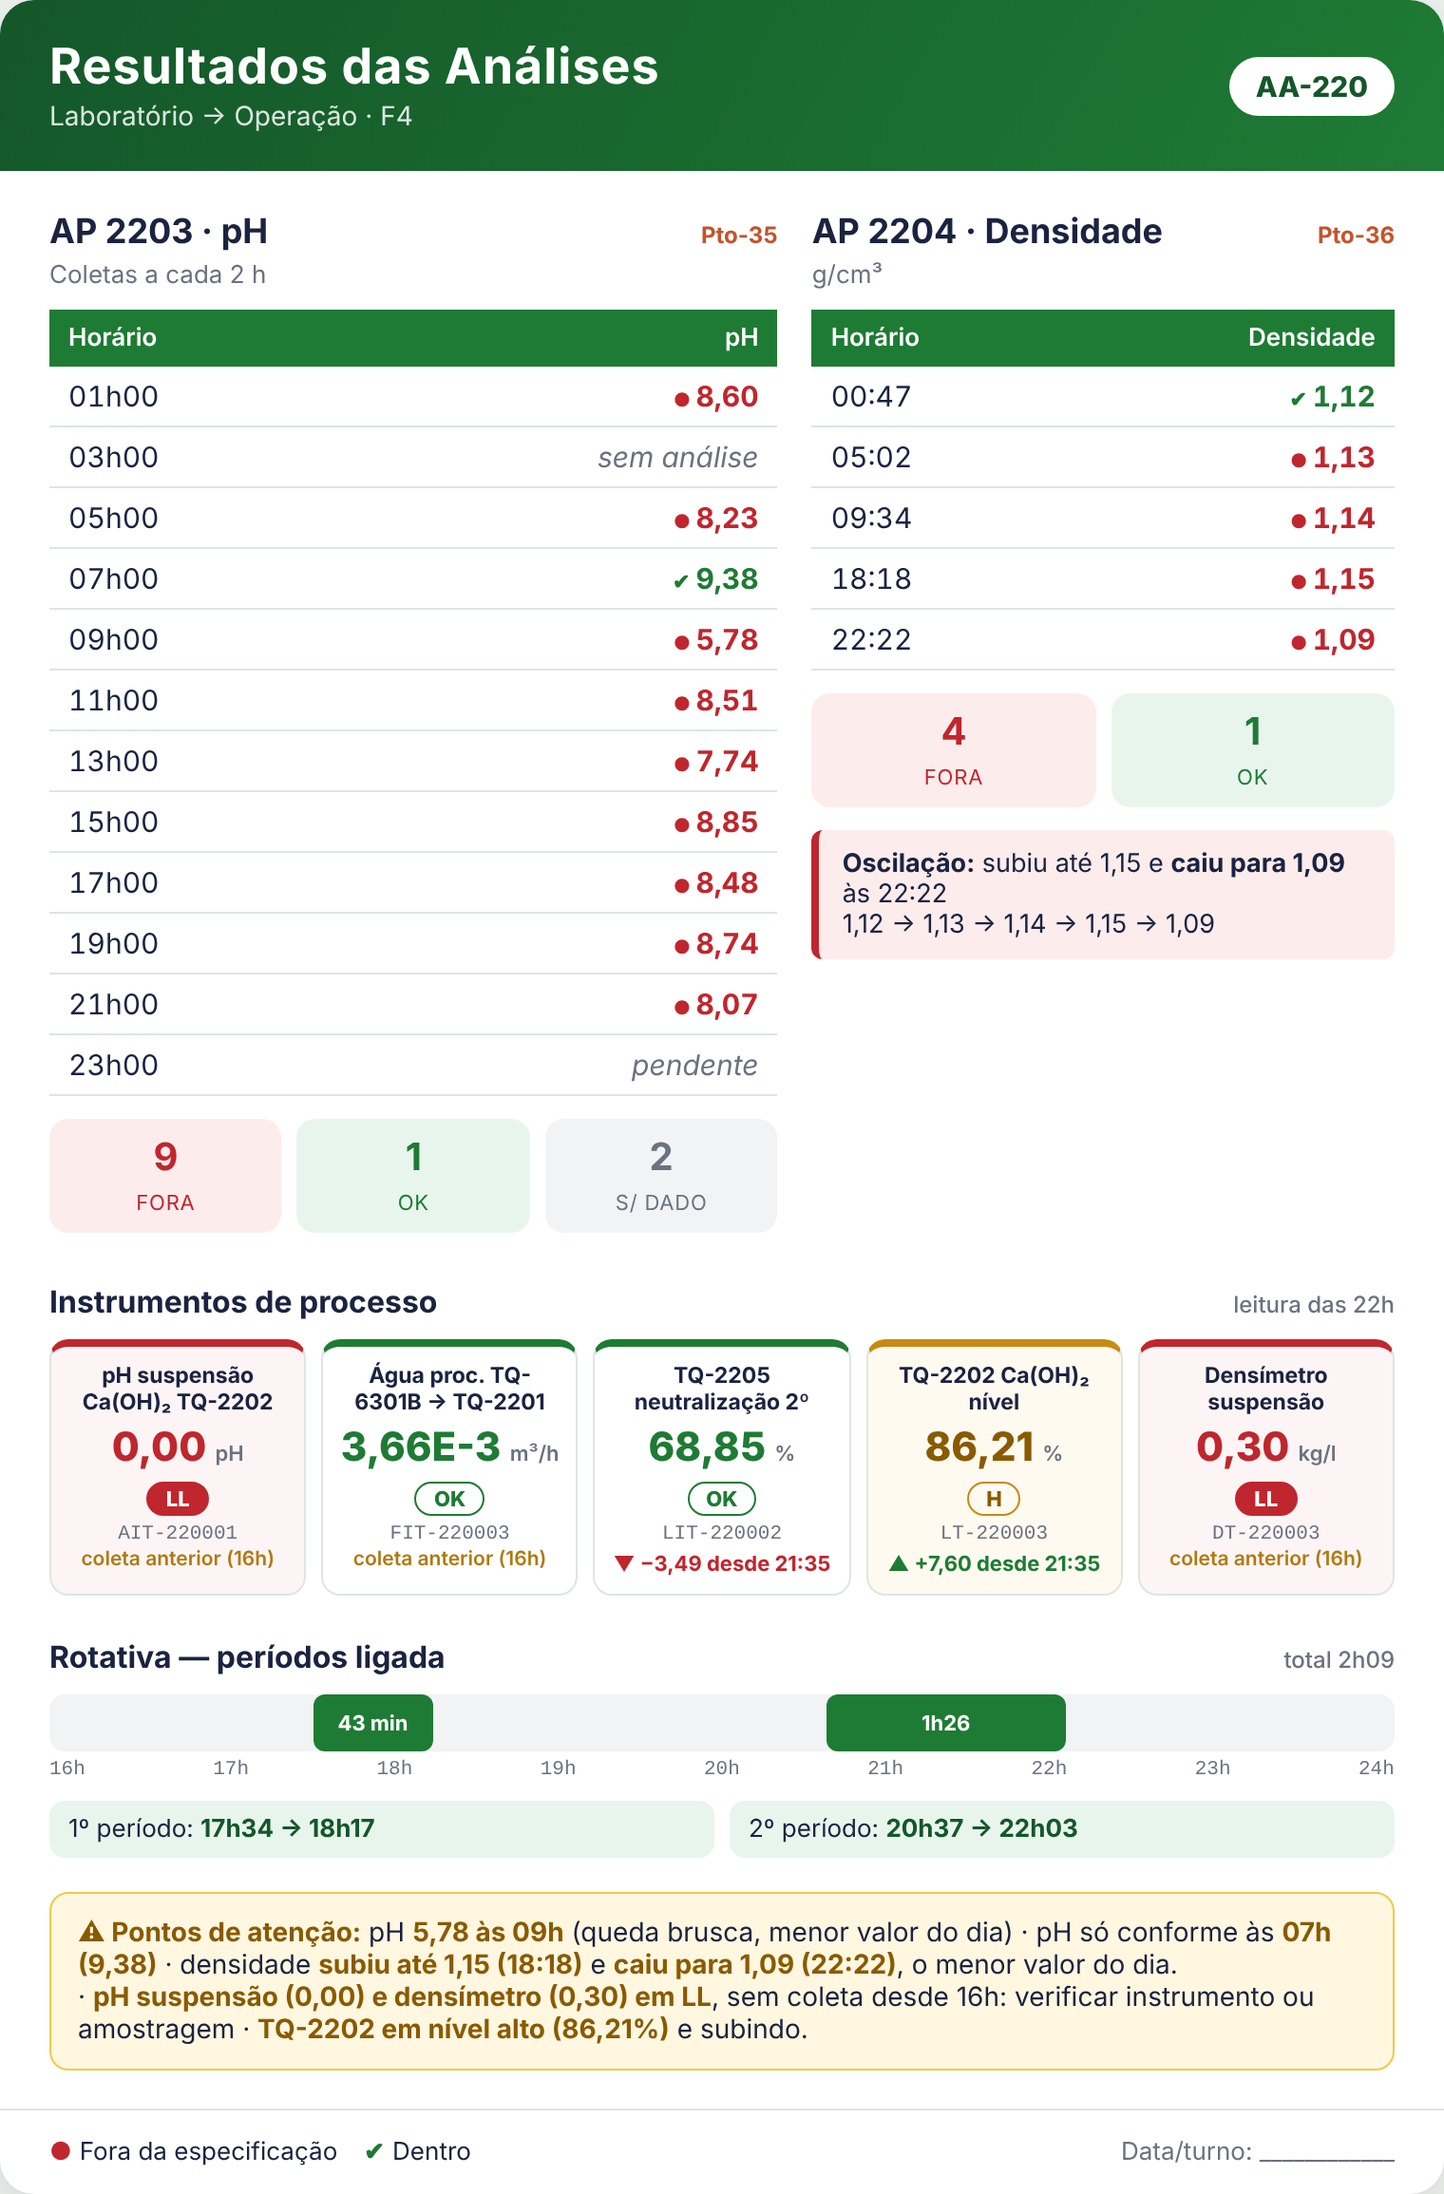
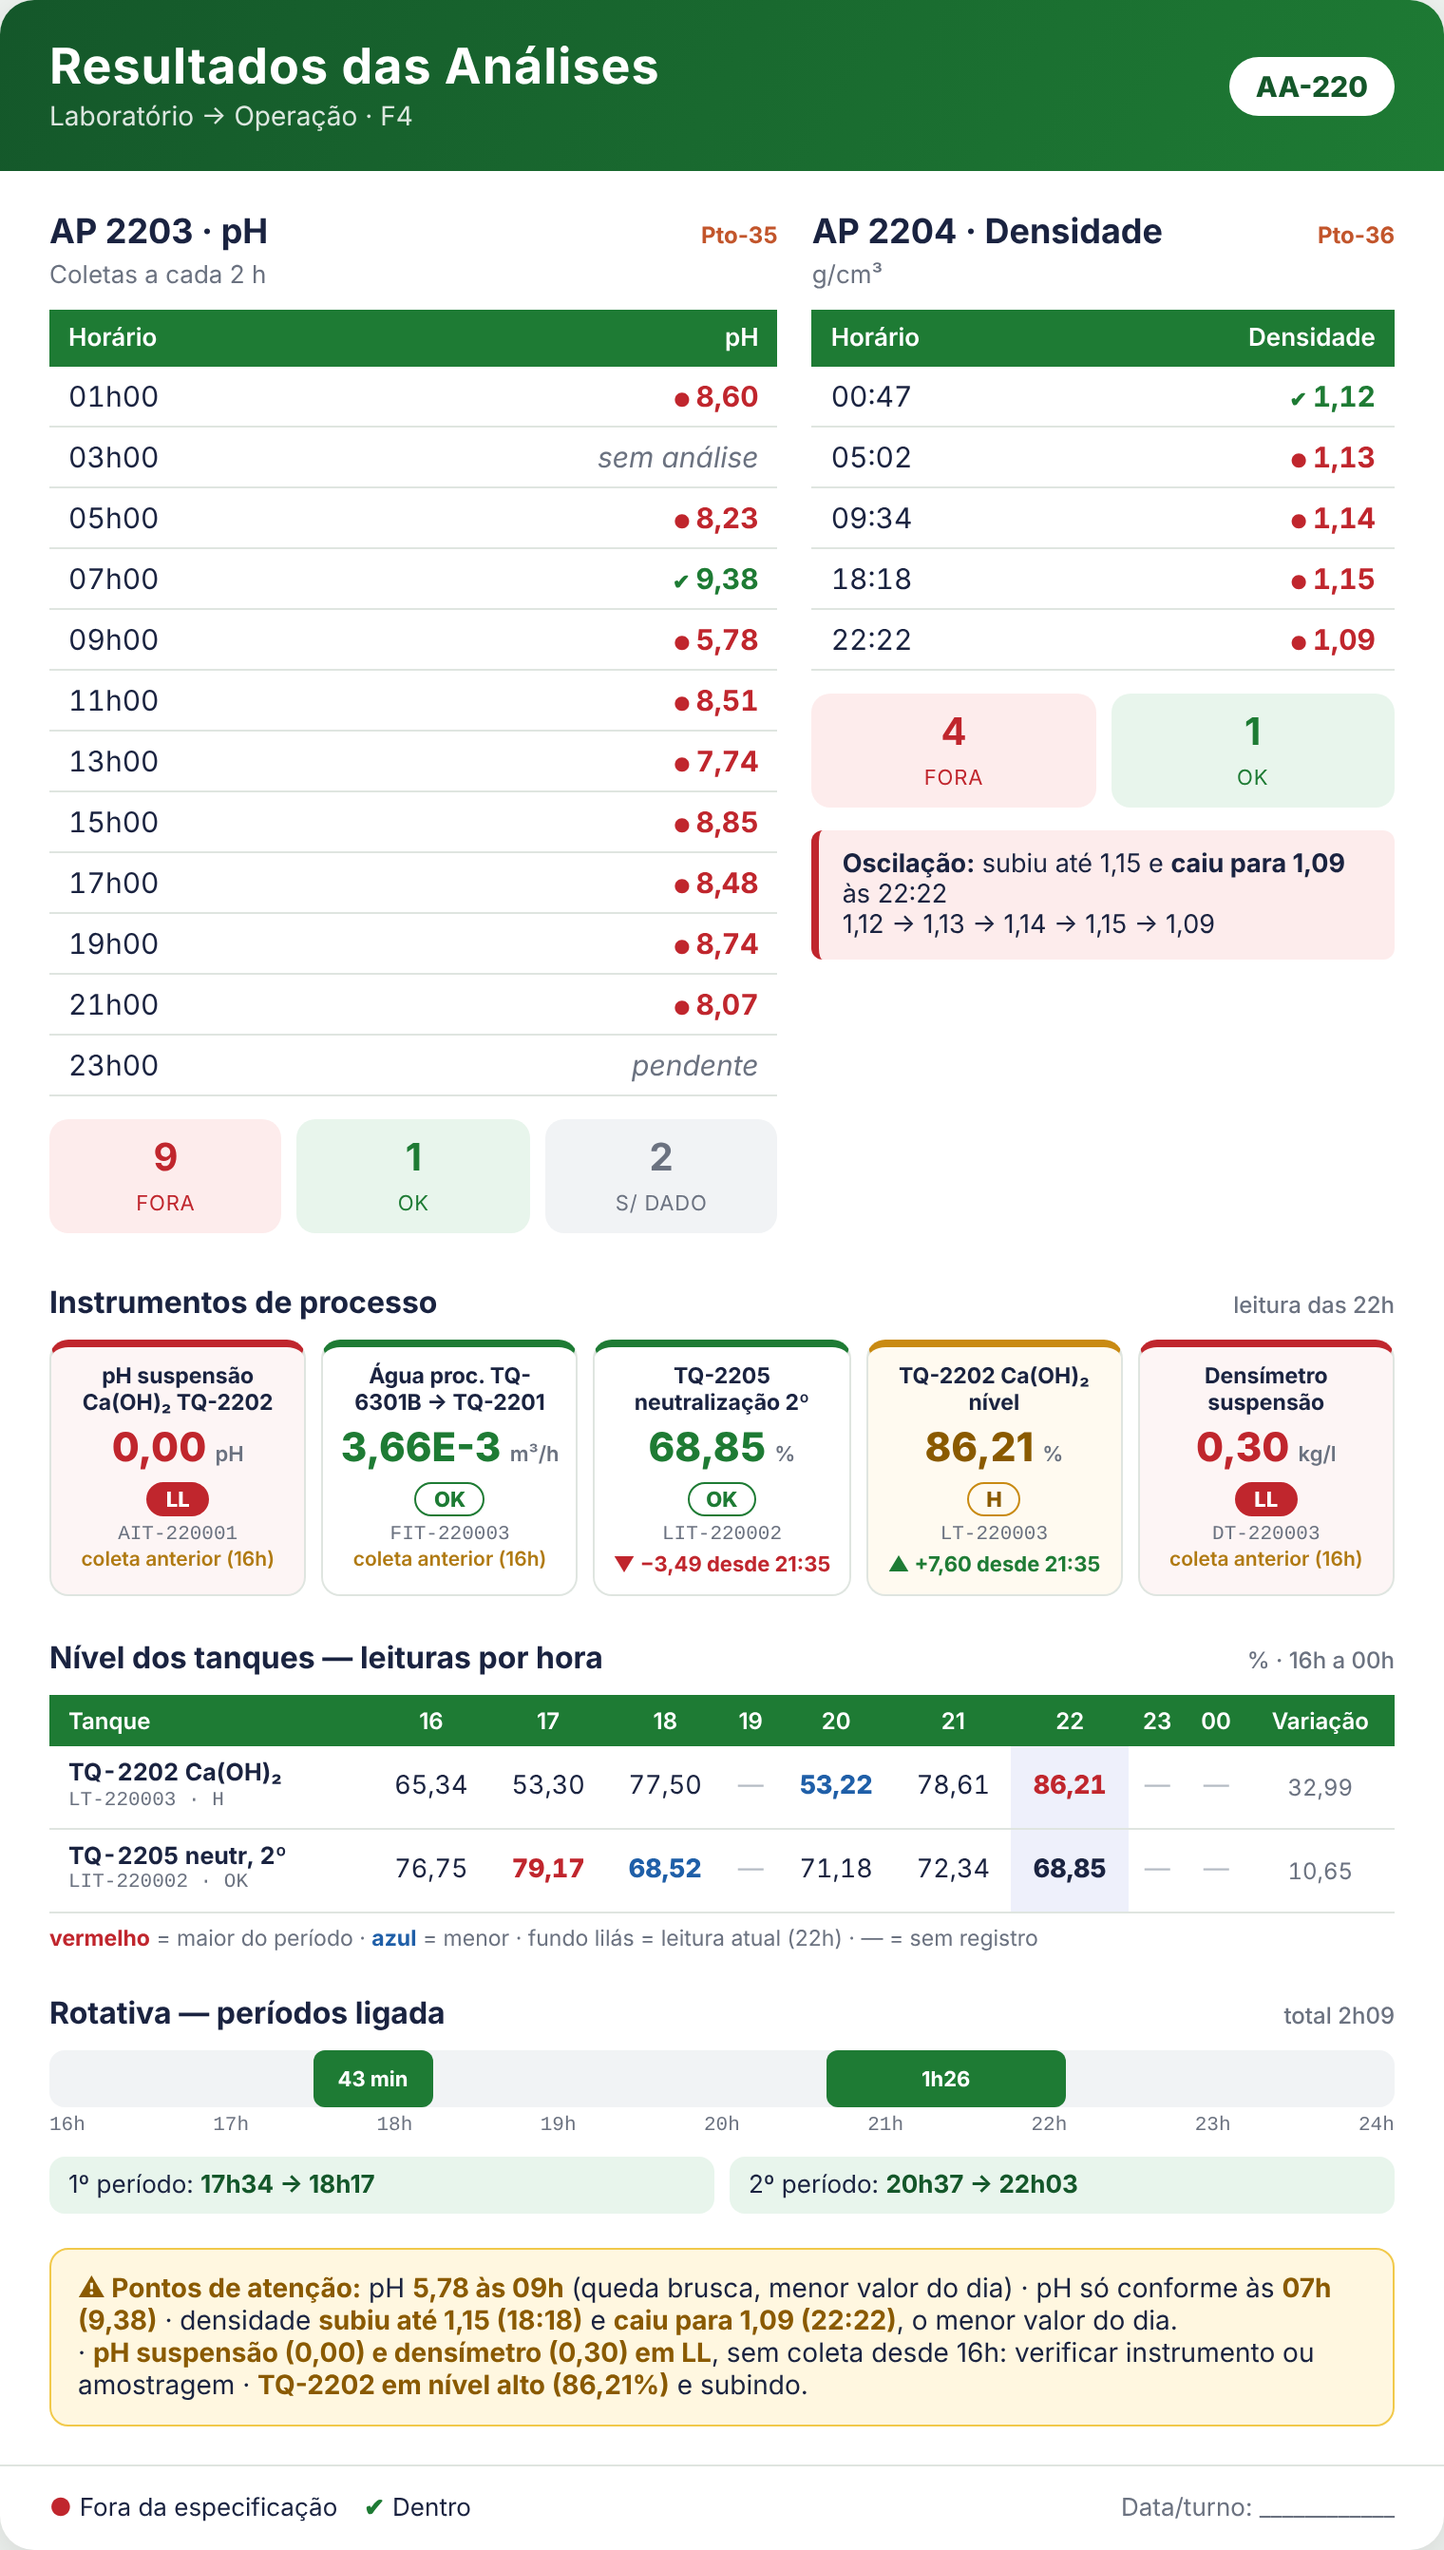
Card AA-220: tabela horária dos níveis TQ-2202 e TQ-2205
Claude-Session: https://claude.ai/code/session_011m7LBXPQBMbjCEjUidTX4p

Changed region(s): [[0.0, 0.0, 1.0, 0.9974], [0.7421, 0.374, 0.9276, 0.4052]]

diff --git a/card-aa220.html b/card-aa220.html
@@ -61,6 +61,19 @@ tr.na td.v{color:var(--mut);font-weight:400;font-style:italic}
 .rot{display:flex;gap:8px;margin-top:10px}
 .rot div{flex:1;background:var(--okbg);border-radius:8px;padding:7px 10px;font-size:13px}
 .rot b{color:var(--gd)}
+.hr{width:100%;border-collapse:collapse;font-size:13.5px}
+.hr th{padding:6px 4px;text-align:center;font-size:12px}
+.hr th:first-child,.hr td:first-child{text-align:left;padding-left:10px}
+.hr td{padding:7px 4px;text-align:center;border-bottom:1px solid var(--line);font-variant-numeric:tabular-nums}
+.hr td:first-child{font-weight:700;font-size:12.5px;line-height:1.25}
+.hr td:first-child small{display:block;font-weight:500;color:var(--mut);font-family:Consolas,monospace;font-size:10.5px}
+.hr td.na{color:#b5bcc4}
+.hr td.mx{color:var(--red);font-weight:800}
+.hr td.mn{color:#1f5fa8;font-weight:800}
+.hr td.now{background:#eef0fb;font-weight:800}
+.hr td.ext{font-size:12px;color:var(--mut)}
+.hr th:last-child,.hr td:last-child{text-align:center}
+.lg2{font-size:11.5px;color:var(--mut);margin-top:6px}
 </style></head><body>
 <div class="card">
   <div class="hd">
@@ -122,6 +135,16 @@ tr.na td.v{color:var(--mut);font-weight:400;font-style:italic}
       <div class="it h"><div class="n">TQ-2202 Ca(OH)₂ nível</div><div class="val">86,21 <small>%</small></div><span class="st">H</span><div class="tag2">LT-220003</div><div class="tr up">▲ +7,60 desde 21:35</div></div>
       <div class="it ll"><div class="n">Densímetro suspensão</div><div class="val">0,30 <small>kg/l</small></div><span class="st">LL</span><div class="tag2">DT-220003</div><div class="obs">coleta anterior (16h)</div></div>
     </div>
+  </div>
+
+  <div class="sec">
+    <h3>Nível dos tanques — leituras por hora <small>% · 16h a 00h</small></h3>
+    <table class="hr">
+      <tr><th>Tanque</th><th>16</th><th>17</th><th>18</th><th>19</th><th>20</th><th>21</th><th>22</th><th>23</th><th>00</th><th>Variação</th></tr>
+      <tr><td>TQ-2202 Ca(OH)₂<small>LT-220003 · H</small></td><td class="">65,34</td><td class="">53,30</td><td class="">77,50</td><td class="na">—</td><td class="mn">53,22</td><td class="">78,61</td><td class="mx now">86,21</td><td class="na">—</td><td class="na">—</td><td class="ext">32,99</td></tr>
+      <tr><td>TQ-2205 neutr, 2º<small>LIT-220002 · OK</small></td><td class="">76,75</td><td class="mx">79,17</td><td class="mn">68,52</td><td class="na">—</td><td class="">71,18</td><td class="">72,34</td><td class="now">68,85</td><td class="na">—</td><td class="na">—</td><td class="ext">10,65</td></tr>
+    </table>
+    <div class="lg2"><b style="color:var(--red)">vermelho</b> = maior do período · <b style="color:#1f5fa8">azul</b> = menor · fundo lilás = leitura atual (22h) · — = sem registro</div>
   </div>
 
   <div class="sec">
